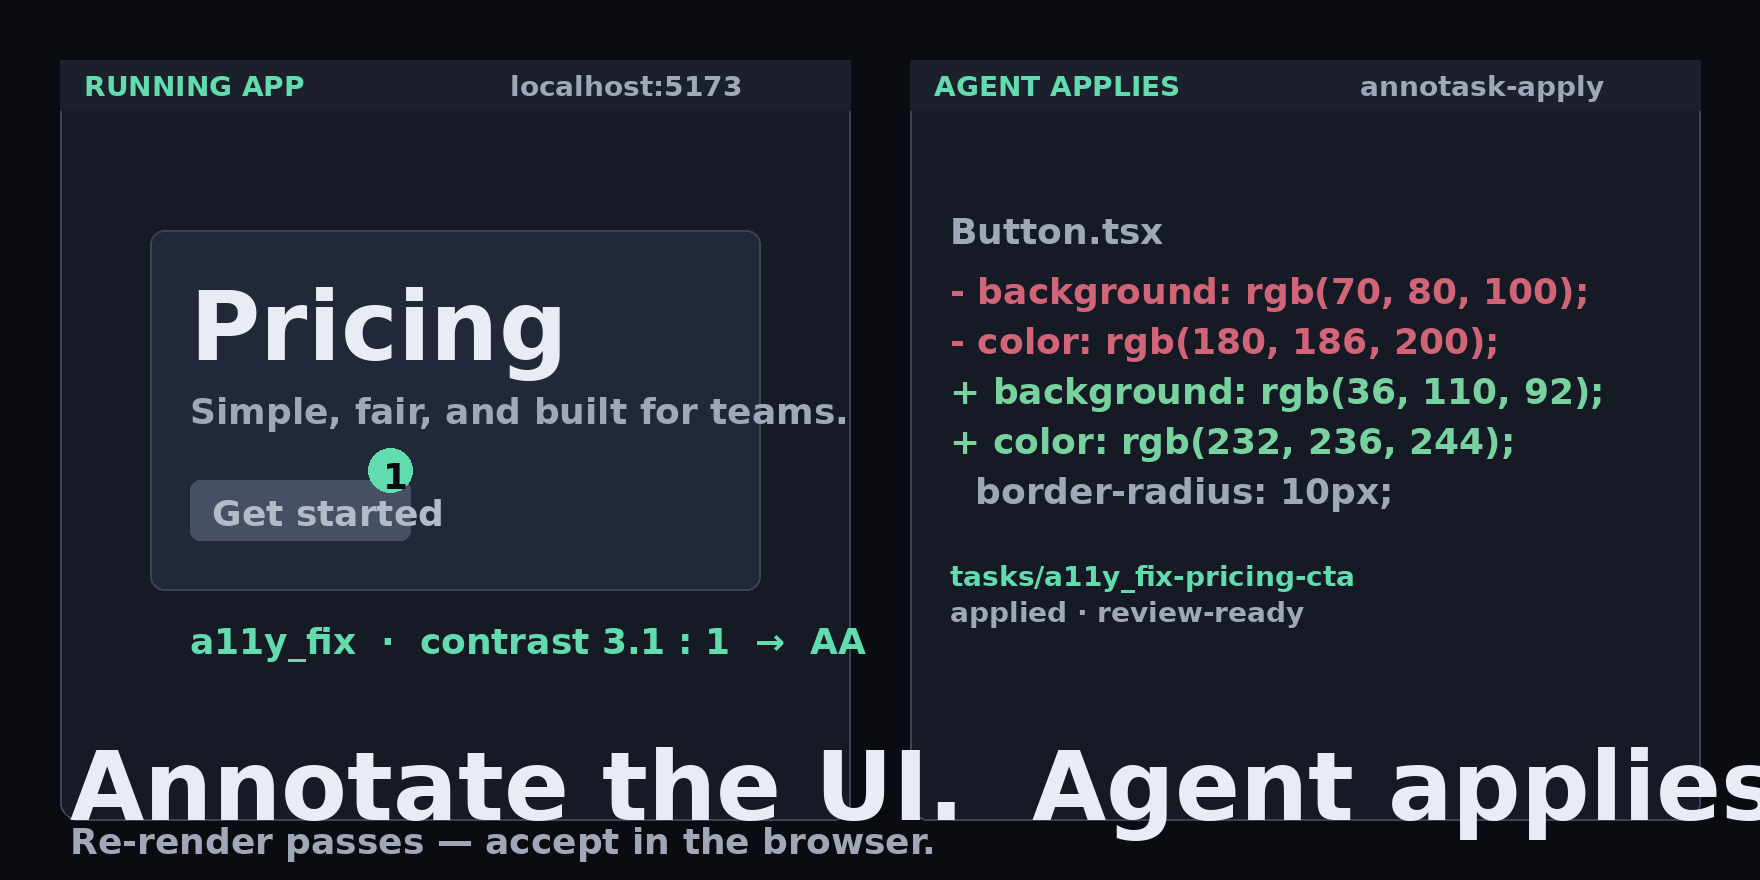
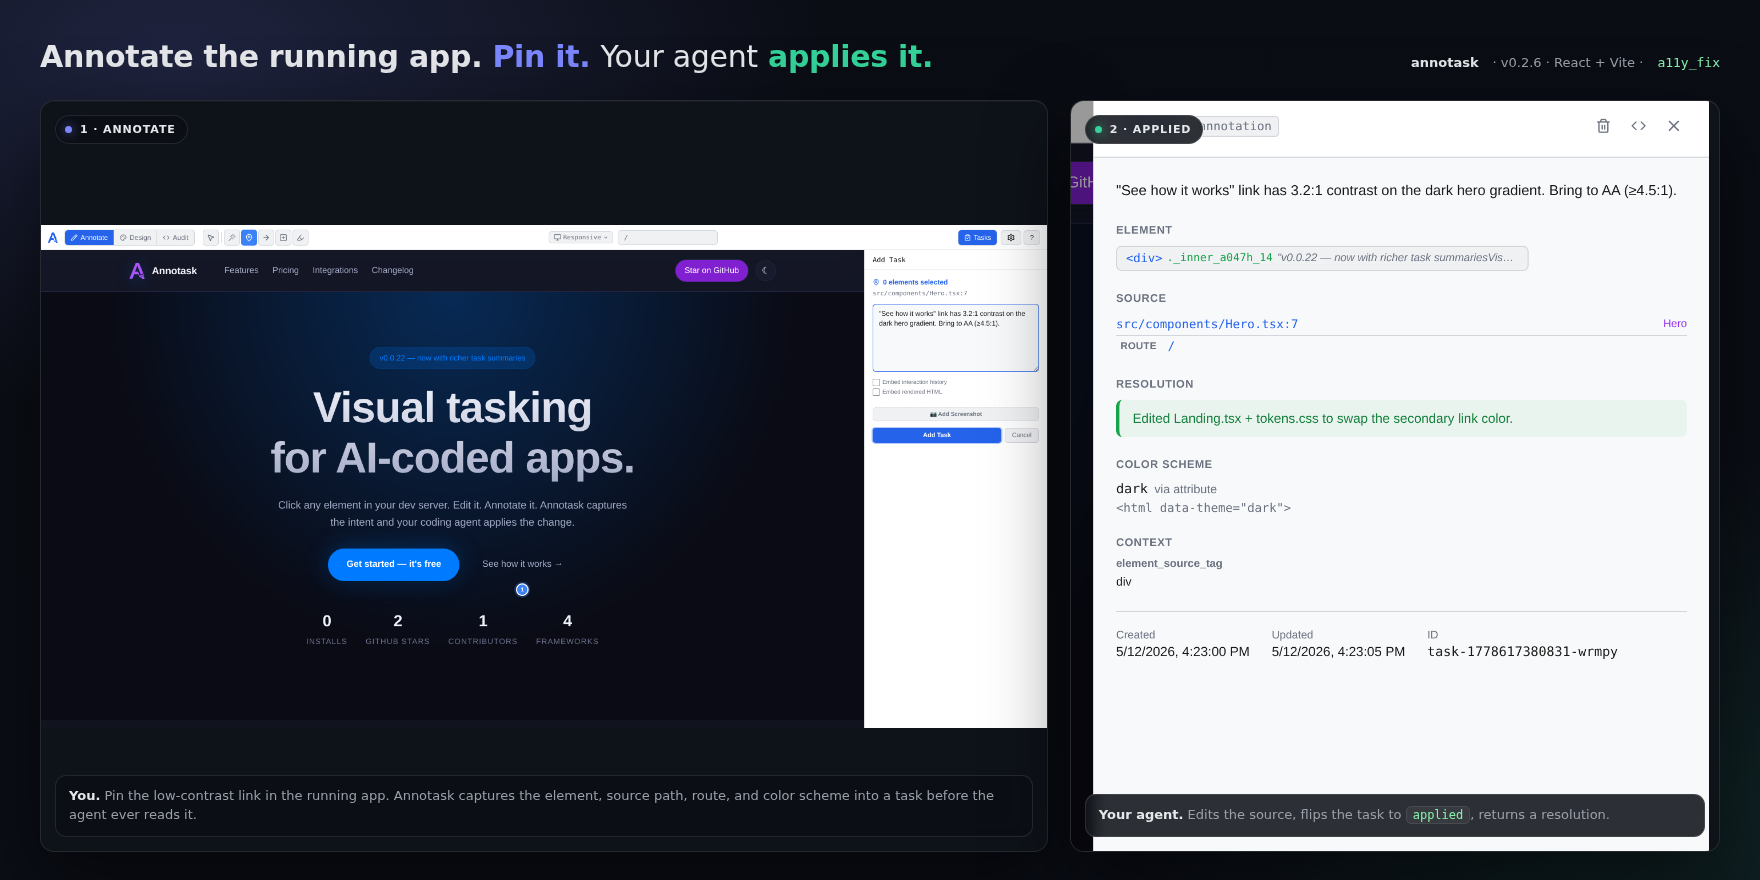
Replace launch placeholders with real hero + demo GIF (ANN-9)
- docs/media/hero.png — real product composite captured against
  pnpm dev:react-vite + /__annotask/. Left pane: annotate moment
  (pin on the playground's hero, task-creation form with full element +
  source context). Right pane: task detail modal in the `applied` state
  with the real resolution note. Composed at 1760x880 over an annotask
  brand background.
- docs/media/demo.gif — 9.5s, 880x495, 1.7 MB. Real round trip on
  React + Vite: switch to pin mode, hover the "See how it works" link,
  drop the pin, file the task with file path + viewport + color scheme,
  agent state transitions (pending -> in_progress -> applied -> review)
  with the link contrast visibly raising during the applied step via
  Vite HMR, resolution note + accept/deny in the panel.
- docs/index.html — updated #demo alt + caption so the inline GIF is
  the demo until the 90-second hosted video lands.

Captures were driven by Playwright against the actual server; no
synthetic UI, no source polish for camera. The HMR override used in
the recording was reverted post-capture.

90-second hosted video (acceptance bullet 3) is in flight as ANN-9
follow-up; hosting target needs CEO confirmation before publishing.

diff --git a/docs/index.html b/docs/index.html
@@ -122,9 +122,9 @@
     <h2>The loop, in 90 seconds</h2>
     <p class="section-lede">One annotation → one structured task → one applied diff → one re-render that passes. No copy-paste from a design tool, no out-of-band agent prompts.</p>
     <div class="video-frame">
-      <img src="media/demo.gif" alt="90-second annotate to apply demo (placeholder)" />
+      <img src="media/demo.gif" alt="Annotate a low-contrast link, agent applies the a11y fix, task flips to review." />
     </div>
-    <p class="caption">90-second video lands here. Until then, this is the still board for the recorded scenario: <code>a11y_fix</code> on a React + Vite playground.</p>
+    <p class="caption">Inline loop above. The full 90-second walkthrough — <code>a11y_fix</code> on a React + Vite playground — is being recorded; the link will appear here once it's hosted.</p>
   </section>
 
   <section>
